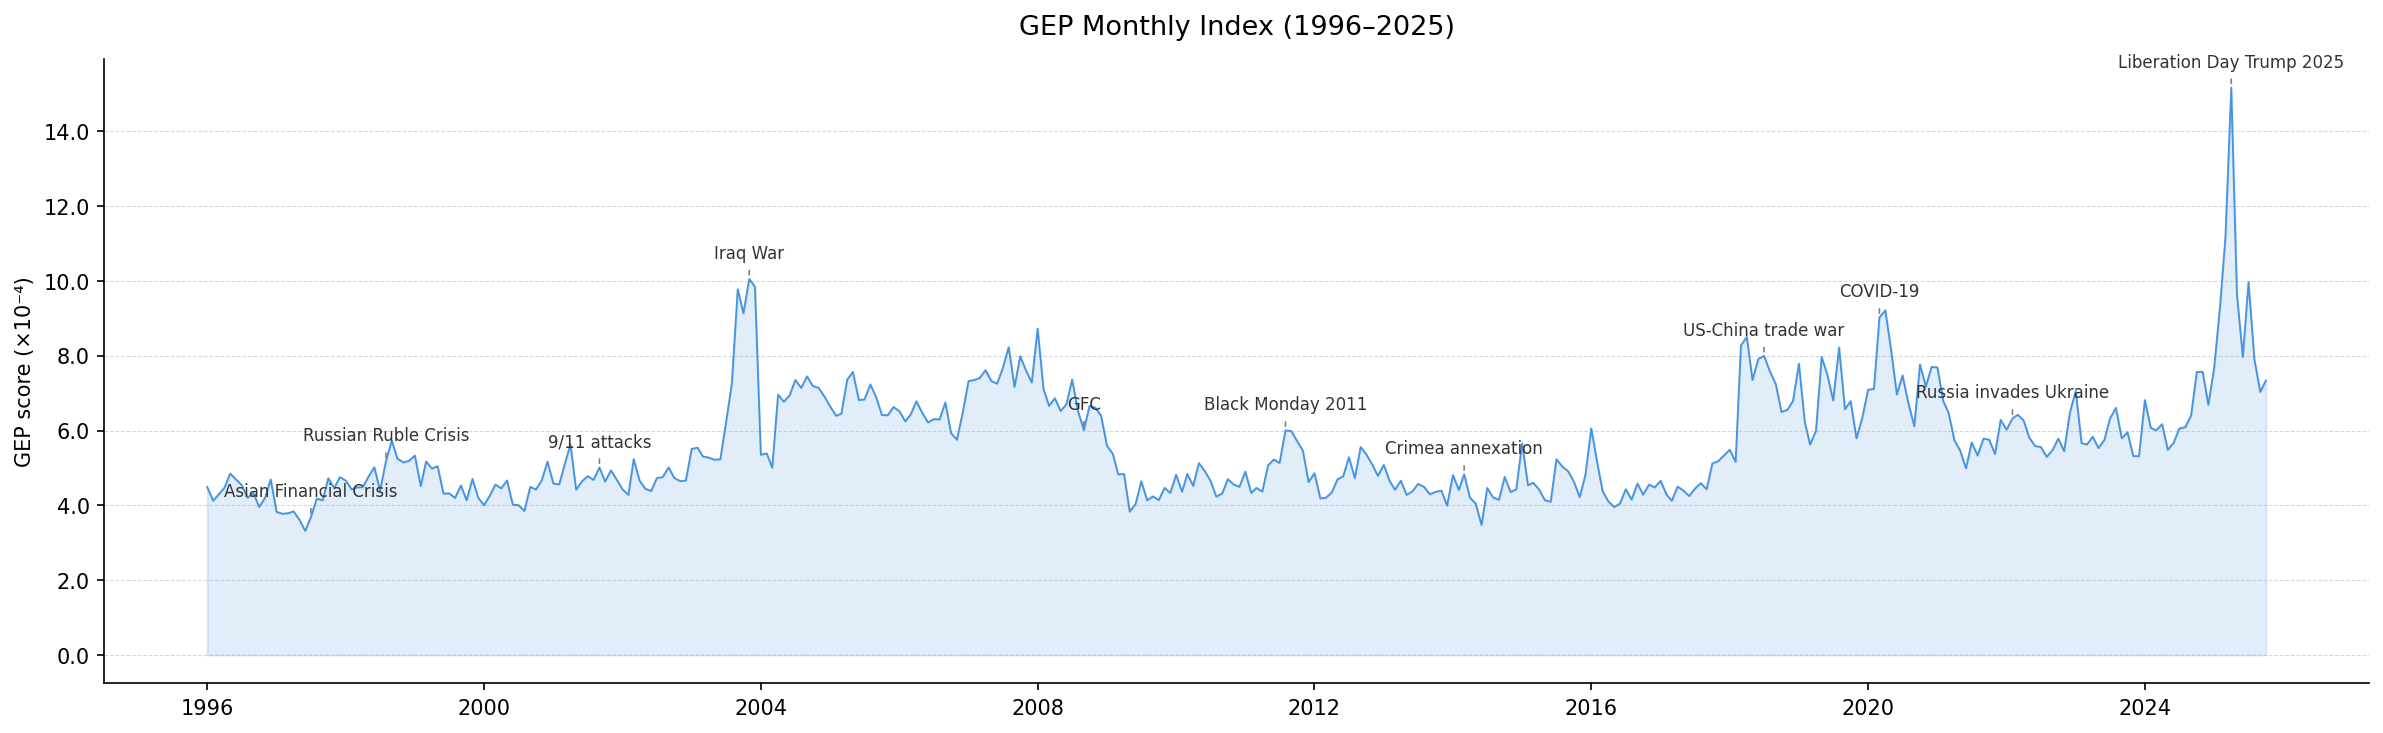
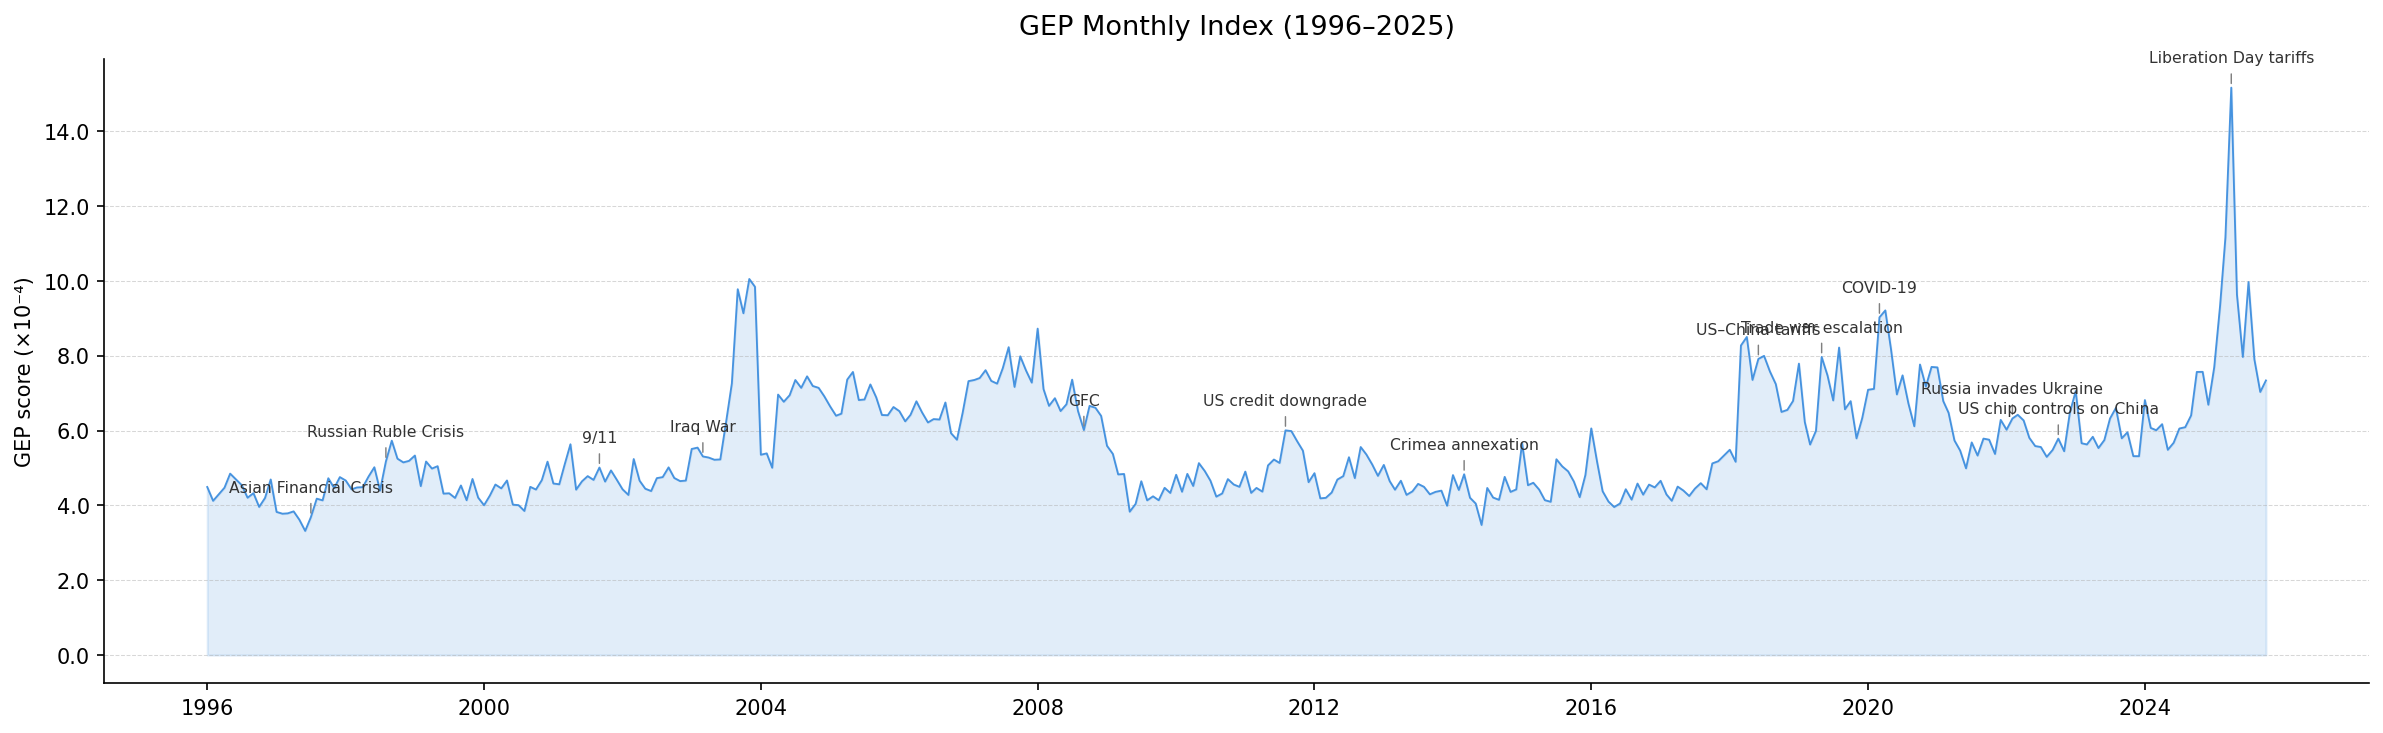
Update plotting_index_8: fix events + add daily/events plot
- Fix Iraq War date (Nov → Mar 2003), add US chip controls 2022,
  trade war escalation 2019, Liberation Day 2025 to monthly plot
- New GEP_Daily_Events.png: daily score dots + monthly line + 36
  geoeconomic events with precise dates, staggered labels
  (inspired by Caldara & Iacoviello 2022, Table 2)

diff --git a/INDEX/index_8/plotting_index_8.py b/INDEX/index_8/plotting_index_8.py
@@ -4,43 +4,61 @@
 import pandas as pd
 import matplotlib.pyplot as plt
 import matplotlib.ticker as ticker
+import matplotlib.dates as mdates
+import numpy as np
 
-df = pd.read_csv("~/Desktop/tesi/Master_Thesis/INDEX/index_8/GEP_Monthly_Index.csv")
-df['month'] = pd.to_datetime(df['month'])
-df['GEP_monthly_scaled'] = df['GEP_monthly'] * 10_000
+BASE = "/Users/catepiacentini/Desktop/tesi/Master_Thesis/INDEX/index_8"
 
-fig, ax = plt.subplots(figsize=(16, 5))
+# ── Load data ──────────────────────────────────────────────────────────────
+monthly = pd.read_csv(f"{BASE}/GEP_Monthly_Index.csv")
+monthly['month'] = pd.to_datetime(monthly['month'])
+monthly['GEP_monthly_scaled'] = monthly['GEP_monthly'] * 10_000
 
-ax.plot(df['month'], df['GEP_monthly_scaled'], color='#378ADD', linewidth=0.9, alpha=0.9)
-ax.fill_between(df['month'], df['GEP_monthly_scaled'], alpha=0.15, color='#378ADD')
+daily = pd.read_csv(f"{BASE}/GEP_Daily_Index.csv", parse_dates=['date'])
+daily_obs = daily[daily['n_articles'] > 0].copy()   # exclude gap-filled days
+daily_obs['score_scaled'] = daily_obs['score'] * 10_000
 
-# Annotate key peaks
+
+# ══════════════════════════════════════════════════════════════════════════════
+# PLOT 1 — Monthly GEP Index with annotated peaks
+# ══════════════════════════════════════════════════════════════════════════════
+
 peaks = {
     '1997-07': 'Asian Financial Crisis',
     '1998-08': 'Russian Ruble Crisis',
-    '2001-09': '9/11 attacks',
-    '2003-11': 'Iraq War',
+    '2001-09': '9/11',
+    '2003-03': 'Iraq War',
     '2008-09': 'GFC',
-    '2011-08': 'Black Monday 2011',
+    '2011-08': 'US credit downgrade',
     '2014-03': 'Crimea annexation',
-    '2018-07': 'US-China trade war',
+    '2018-06': 'US–China tariffs',
+    '2019-05': 'Trade war escalation',
     '2020-03': 'COVID-19',
     '2022-02': 'Russia invades Ukraine',
-    '2025-04': 'Liberation Day Trump 2025',
+    '2022-10': 'US chip controls on China',
+    '2025-04': 'Liberation Day tariffs',
 }
+
+fig, ax = plt.subplots(figsize=(16, 5))
+
+ax.plot(monthly['month'], monthly['GEP_monthly_scaled'],
+        color='#378ADD', linewidth=0.9, alpha=0.9)
+ax.fill_between(monthly['month'], monthly['GEP_monthly_scaled'],
+                alpha=0.15, color='#378ADD')
+
 for month_str, label in peaks.items():
-    row = df[df['month'] == month_str]
+    row = monthly[monthly['month'] == month_str]
     if not row.empty:
         x = row['month'].values[0]
         y = row['GEP_monthly_scaled'].values[0]
         ax.annotate(
             label,
             xy=(x, y),
-            xytext=(0, 10),
+            xytext=(0, 12),
             textcoords='offset points',
-            fontsize=8,
+            fontsize=7.5,
             ha='center',
-            arrowprops=dict(arrowstyle='-', color='gray', lw=0.8),
+            arrowprops=dict(arrowstyle='-', color='gray', lw=0.7),
             color='#333333',
         )
 
@@ -53,6 +71,126 @@ ax.spines['top'].set_visible(False)
 ax.spines['right'].set_visible(False)
 
 plt.tight_layout()
-plt.savefig("GEP_Monthly_Index.png", dpi=150, bbox_inches='tight')
+plt.savefig(f"{BASE}/GEP_Monthly_Index.png", dpi=150, bbox_inches='tight')
 print("Saved: GEP_Monthly_Index.png")
+plt.close()
 
+
+# ══════════════════════════════════════════════════════════════════════════════
+# PLOT 2 — Daily dots + Monthly line + Comprehensive geoeconomic events
+#           Inspired by Caldara & Iacoviello (2022), Table 2 / Figure 1
+# ══════════════════════════════════════════════════════════════════════════════
+
+# Comprehensive geoeconomic events with precise dates.
+# Format: 'YYYY-MM-DD': ('Label', level)
+# level 0-3 → stagger label heights to avoid overlap between nearby events
+events = [
+    # ── 1990s ──────────────────────────────────────────────────────────────
+    ('1997-07-02', 'Thai baht devaluation\n(Asian crisis begins)',      0),
+    ('1998-08-17', 'Russia ruble default',                              1),
+    ('1999-11-30', 'WTO Seattle ministerial\ncollapse',                 2),
+    # ── 2000s ──────────────────────────────────────────────────────────────
+    ('2001-09-11', '9/11 attacks',                                      0),
+    ('2001-12-11', 'China joins WTO',                                   2),
+    ('2002-03-05', 'Bush 201 steel tariffs (30%)',                      1),
+    ('2003-03-20', 'US-led invasion of Iraq',                           0),
+    ('2006-10-09', 'N. Korea nuclear test',                             3),
+    ('2007-08-09', 'BNP Paribas freezes\nsubprime funds (GFC onset)',  1),
+    ('2008-09-15', 'Lehman Brothers collapse',                          0),
+    ('2009-04-02', 'G20 London Summit\n(GFC response)',                 2),
+    # ── 2010s ──────────────────────────────────────────────────────────────
+    ('2010-05-02', 'Greek €110bn bailout\n(Eurozone crisis)',           0),
+    ('2011-08-05', 'S&P downgrades US\n(Black Monday)',                 1),
+    ('2012-07-26', 'Draghi "whatever\nit takes"',                       3),
+    ('2014-03-18', 'Russia annexes Crimea',                             0),
+    ('2014-07-31', 'US/EU expand\nRussia sanctions',                    2),
+    ('2015-07-14', 'Iran nuclear\ndeal (JCPOA)',                        1),
+    ('2016-06-23', 'Brexit vote',                                       3),
+    ('2016-11-08', 'Trump wins\nUS election',                           0),
+    ('2018-01-22', 'US solar panel\ntariffs',                           2),
+    ('2018-03-22', 'Trump §301 tariffs\non China ($60bn)',              0),
+    ('2018-06-15', 'US-China tariffs\neffective ($34bn)',               1),
+    ('2018-08-10', 'US doubles tariffs\non Turkey',                     3),
+    ('2018-12-01', 'Trump-Xi G20\n90-day truce',                       2),
+    ('2019-05-10', 'US raises China\ntariffs to 25%',                  0),
+    ('2019-08-23', 'China retaliates\n($75bn tariffs)',                 1),
+    # ── 2020s ──────────────────────────────────────────────────────────────
+    ('2020-01-15', 'US-China Phase 1\ntrade deal signed',              3),
+    ('2020-03-11', 'WHO: COVID-19\npandemic declared',                 0),
+    ('2021-03-23', 'Suez Canal\nblocked (Ever Given)',                  2),
+    ('2022-02-24', 'Russia full-scale\ninvasion of Ukraine',            0),
+    ('2022-03-26', 'Russia: gas payments\nin rubles',                   1),
+    ('2022-10-07', 'US chip export\ncontrols on China',                 3),
+    ('2023-08-09', 'Biden: US outbound\ninvestment curbs on China',    2),
+    ('2024-05-14', 'Biden doubles\nChina EV tariffs (100%)',            0),
+    ('2025-01-20', 'Trump inauguration\n(tariff threats)',              1),
+    ('2025-04-02', '"Liberation Day"\nsweeping tariffs',                0),
+]
+
+# ── Heights for the 4 stagger levels (in axes-fraction coords above the plot) ──
+# The more levels, the more vertical space needed in the top margin.
+LABEL_HEIGHTS  = [1.03, 1.16, 1.29, 1.42]   # axes-fraction y coords
+LINE_COLORS    = ['#888888']                  # single gray for all event lines
+
+fig, ax = plt.subplots(figsize=(22, 10))
+
+# Extra top margin to accommodate the staggered labels
+fig.subplots_adjust(top=0.62)    # leaves ~38% of figure height above axes
+
+# Daily dots (only true trading days)
+ax.scatter(daily_obs['date'], daily_obs['score_scaled'],
+           s=1.5, color='#AACCEE', alpha=0.35, linewidths=0, zorder=2,
+           label='Daily GEP score')
+
+# Monthly line
+ax.plot(monthly['month'], monthly['GEP_monthly_scaled'],
+        color='#1A5FA8', linewidth=1.6, alpha=0.95, zorder=3,
+        label='Monthly GEP (article-weighted avg)')
+
+# ── Event annotations ───────────────────────────────────────────────────────
+xmin = mdates.date2num(daily_obs['date'].min())
+xmax = mdates.date2num(daily_obs['date'].max())
+
+for date_str, label, level in events:
+    xd = pd.to_datetime(date_str)
+    if not (daily_obs['date'].min() <= xd <= daily_obs['date'].max()):
+        continue
+
+    # Vertical dashed line spanning full axes height
+    ax.axvline(xd, color='#BBBBBB', linewidth=0.55, linestyle='--',
+               zorder=1, alpha=0.85)
+
+    # Staggered label: x in data coordinates, y in axes fraction
+    ax.annotate(
+        label,
+        xy=(xd, 1.0),                          # foot of label (top of axes)
+        xycoords=('data', 'axes fraction'),
+        xytext=(xd, LABEL_HEIGHTS[level]),      # label position
+        textcoords=('data', 'axes fraction'),
+        fontsize=6.0,
+        ha='center',
+        va='bottom',
+        color='#222222',
+        arrowprops=dict(arrowstyle='-', color='#BBBBBB', lw=0.5),
+        annotation_clip=False,
+    )
+
+# ── Axis formatting ─────────────────────────────────────────────────────────
+ax.set_xlim(daily_obs['date'].min(), daily_obs['date'].max())
+ax.set_ylim(bottom=0)
+ax.set_title('GEP Index — Daily Scores and Monthly Average (1996–2025)',
+             fontsize=13, pad=12)
+ax.set_xlabel('')
+ax.set_ylabel('GEP score (×10⁻⁴)', fontsize=10)
+ax.yaxis.set_major_formatter(ticker.FormatStrFormatter('%.1f'))
+ax.xaxis.set_major_locator(mdates.YearLocator(2))
+ax.xaxis.set_major_formatter(mdates.DateFormatter('%Y'))
+plt.setp(ax.get_xticklabels(), fontsize=9)
+ax.grid(axis='y', linestyle='--', linewidth=0.4, alpha=0.4)
+ax.spines['top'].set_visible(False)
+ax.spines['right'].set_visible(False)
+ax.legend(fontsize=9, framealpha=0.7, loc='upper left')
+
+plt.savefig(f"{BASE}/GEP_Daily_Events.png", dpi=180, bbox_inches='tight')
+print("Saved: GEP_Daily_Events.png")
+plt.close()
